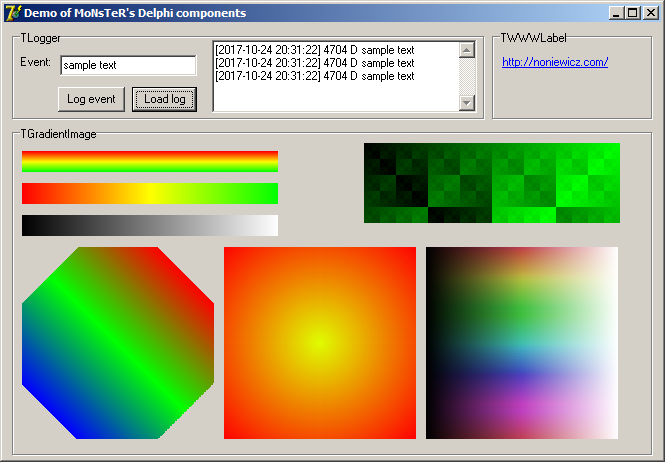
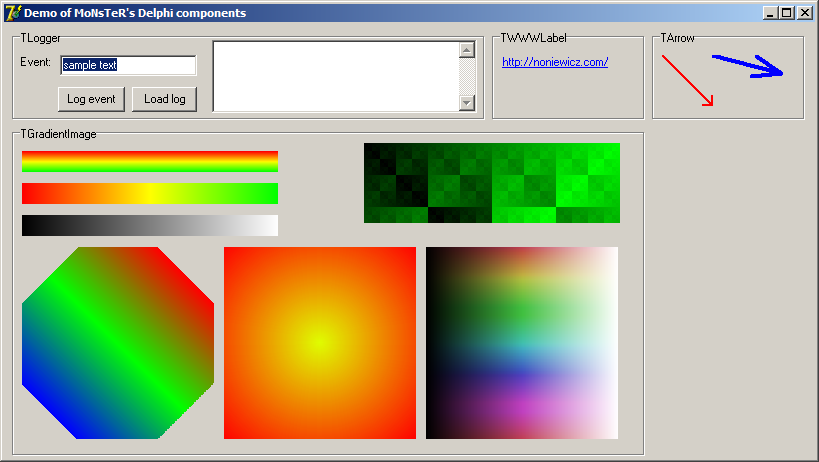
TArrow added

diff --git a/README.md b/README.md
@@ -8,5 +8,7 @@ for now:
 - TGradientImage - simple visual component that represents various types of gradient.
   It can also draw color map, paint [RBG|HSL]=f(x, y) functions,
   and render to external canvas.
+- TArrow component - simple visual component that represents an arrow.
+  Parameters include: length, angle, color, line width also len and angle of the 'pointy' part.
 
 ![demo screenshot](/demo.png?raw=true "demo screenshot")
